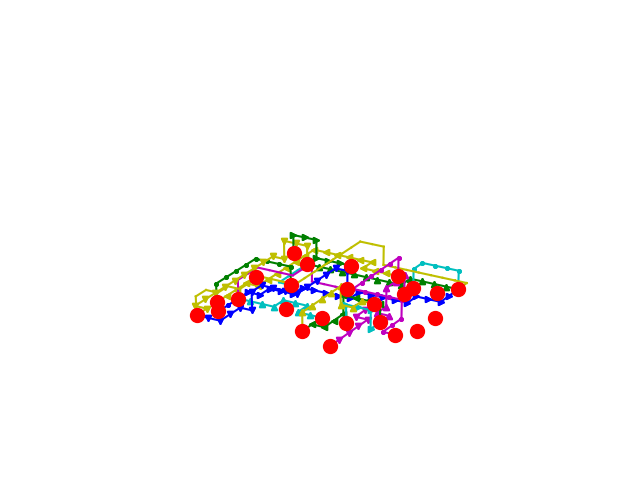
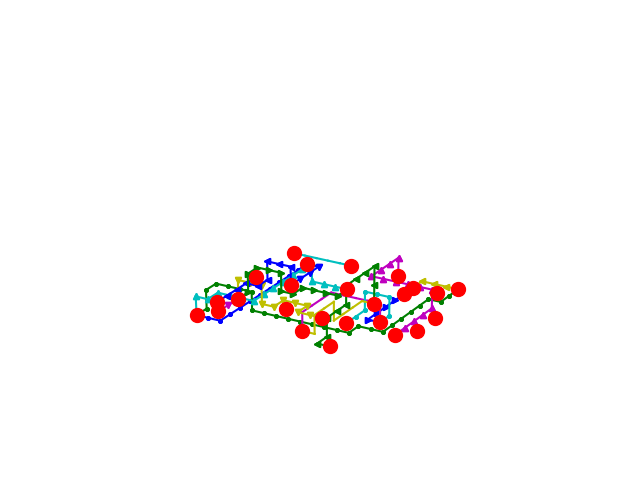
Add files via upload

Changed region(s): [[0.2812, 0.4688, 0.75, 0.7188]]

diff --git a/code/algorithms/a_star.py b/code/algorithms/a_star.py
@@ -18,39 +18,32 @@ class PriorityQueue():
 
 
 def a_star(chip, net):
-	start = chip.circuit[net[0]] + (0,)
-	goal = chip.circuit[net[1]] + (0,)
+	start, goal = chip.circuit[net[0]] + (0,), chip.circuit[net[1]] + (0,)
 	queue = PriorityQueue()
 	queue.put(start, 0)
-	came_from = {}
-	cost_so_far = {}
-	came_from[start] = None
-	cost_so_far[start] = 0
+	came_from, cost_so_far = {}, {}
+	came_from[start], cost_so_far[start] = None, 0
 	shortest_path = []
 
-	try:
-		while not queue.empty():
-			current = queue.get()
-			if current == goal:
-				break
-			for next in chip.neighbors(current, goal):
-				new_cost = cost_so_far[current] + 1
-				if next not in cost_so_far or new_cost < cost_so_far[next]:
-					cost_so_far[next] = new_cost
-					priority = new_cost + heuristic(goal, next) + gate_density(chip, next)
-					queue.put(next, priority)
-					came_from[next] = current
+	while not queue.empty():
+		current = queue.get()
+		if current == goal:
+			break
+		for next in chip.neighbors(current, goal):
+			new_cost = cost_so_far[current] + 1
+			if next not in cost_so_far or new_cost < cost_so_far[next]:
+				cost_so_far[next] = new_cost
+				priority = new_cost + heuristic(goal, next) + gate_density(chip, next)
+				queue.put(next, priority)
+				came_from[next] = current
 
-		prev = goal
-		shortest_path.append(goal)
-		while came_from[prev] is not None:
-			shortest_path.append(came_from[prev])
-			prev = came_from[prev]
-		chip.walls += shortest_path
+	prev = goal
+	shortest_path.append(goal)
+	while came_from[prev] is not None:
+		shortest_path.append(came_from[prev])
+		prev = came_from[prev]
+	chip.walls += shortest_path
 
-		# store path for this net in new Path object and append to chip object
-		chip.paths.append(classChip.Path(net, shortest_path))
-		return cost_so_far[goal]
-
-	except KeyError:
-		return net
+	# store path for this net in new Path object and append to chip object
+	chip.paths.append(classChip.Path(net, shortest_path))
+	return cost_so_far[goal]

diff --git a/main.py b/main.py
@@ -21,13 +21,11 @@ def main():
 	netlists = load_data(directory + "/data/netlists.txt")
 
 	circuit = circuits.circuit_0
-	netlist = netlists.netlist_1[:20]
+	netlist = netlists.netlist_1
+	population_size, width, height = 20, 18, 13
 	algorithm = a_star
 
-
-	test(circuit, 18, 13, netlist, algorithm)
-
-
+	test(circuit, width, height, netlist, algorithm)
 
 	"""
 	test(circuit, 18, 13, netlist, algorithm)
@@ -42,6 +40,14 @@ def main():
 	area(circuit[net[0]], circuit[net[1]])])
 	test(circuit, 18, 13, netlist, algorithm, "sorted by distance, then by area")
 
+	population = initial_pop(population_size, circuit, width, height, algorithm, netlist)
+	while population[0][1] < len(netlist):
+		print(population[0][1], population[-1][1])
+		mutate_pop(population, 0.05)
+		parents = selection(population, 5)
+		population = next_pop(10, circuit, width, height, algorithm, parents)
+	netlist = population[0][0]
+
 	"""
 
 	return
@@ -50,6 +56,7 @@ def main():
 # to test with certain circuits and netlists
 def test(circuit, width, height, netlist, algorithm):
 	new_index = 0
+	max_index = 0
 	print("circuit of length", width, "and height", height)
 	print("Upper bound (worst case) =", upper_bound(Chip(circuit, width, height), circuit, netlist))
 
@@ -60,21 +67,15 @@ def test(circuit, width, height, netlist, algorithm):
 		for index, net in enumerate(netlist):
 			try:
 				cost += algorithm(chip, net)
-			except TypeError:
-				cost = 0
-				print(index)
-				netlist.insert(new_index % len(netlist), netlist.pop(index))
-				new_index += 1
+			except KeyError:
 				break
 	print("Total cost", algorithm.__name__, " = ", cost)
 
 	print("Lower bound =", lower_bound(circuit, netlist))
 	print()
 
-	# print grid
 	visualization.plot_3D(directory + "/results", chip, width, height)
 	visualization.plot_grid(directory + "/results", chip, width, height)
-	# visualization.print_simple_grid(chip)
 
 
 if __name__ == "__main__":

diff --git a/code/algorithms/genetic.py b/code/algorithms/genetic.py
@@ -9,7 +9,7 @@ def fitness(chip, netlist, algorithm):
 	for index, net in enumerate(netlist):
 		try:
 			cost += algorithm(chip, net)
-		except TypeError:
+		except KeyError:
 			return(index)
 	return(cost)
 
@@ -23,12 +23,10 @@ def initial_pop(size, circuit, width, height, algorithm, netlist):
 	population.sort(key = lambda netlist : netlist[1], reverse = True)
 	return population
 
-def selection(population, sample, mutations):
+def selection(population, sample):
 	parents = []
 	for i in range(sample):
 		parents.append(population[i][0])
-	for i in range(mutations):
-		parents.append(choice(population)[0])
 	shuffle(parents)
 	return parents
 
@@ -51,3 +49,13 @@ def next_pop(size, circuit, width, height, algorithm, parents):
 			population.append((child, fitness(chip, child, algorithm)))
 	population.sort(key = lambda child : child[1], reverse = True)
 	return population
+
+def mutate(individual):
+	ids = range(len(individual))
+	a, b = sample(ids, 2)
+	individual[a], individual[b] = individual[b], individual[a]
+
+def mutate_pop(population, mutation_rate):
+	for individual in population:
+		if random() < mutation_rate:
+			mutate(individual[0])

diff --git a/code/algorithms/shared_functions.py b/code/algorithms/shared_functions.py
@@ -2,7 +2,7 @@
 
 def distance(coords_a, coords_b):
 	return abs(coords_a[0] - coords_b[0]) + abs(coords_a[1] - coords_b[1])
-
+	
 def heuristic(coords_a, coords_b):
 	return abs(coords_a[0] - coords_b[0]) + abs(coords_a[1] - coords_b[1]) + abs(coords_a[2] - coords_b[2])
 
